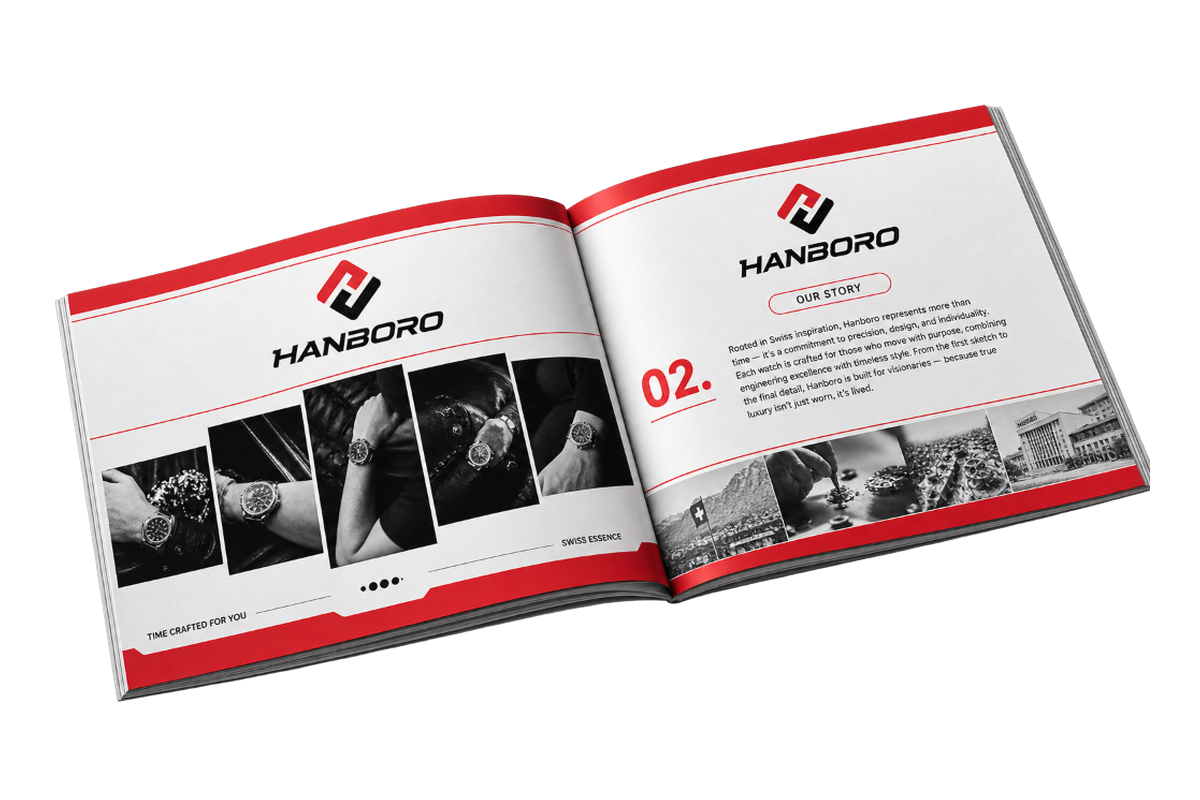
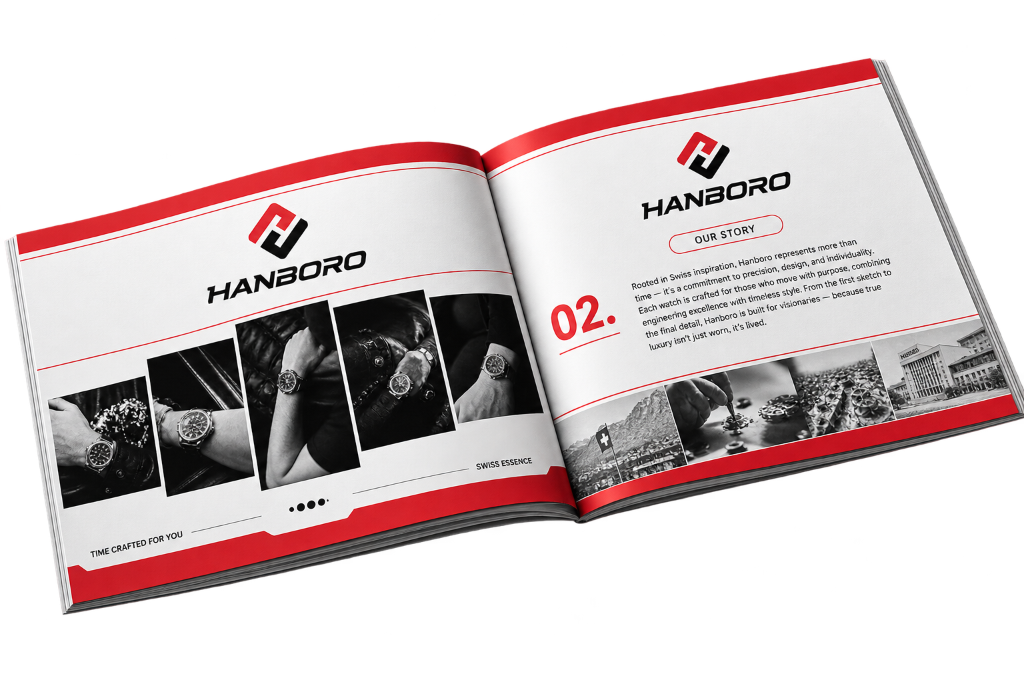
Register Spread 2 perspective warp to match Spread 1 pixel-perfectly with natural 3D page flip

Changed region(s): [[0.0, 0.0616, 1.0, 0.9238]]

diff --git a/src/styles.css b/src/styles.css
@@ -400,53 +400,126 @@ a { color: inherit; text-decoration: none; }
   position: relative;
   width: 100%;
   max-width: 1080px;
-  aspect-ratio: 1200 / 800;
-  display: flex;
+  aspect-ratio: 1024 / 682;
   perspective: 2600px;
   transform-style: preserve-3d;
   filter: drop-shadow(0 35px 80px rgba(0, 0, 0, 0.95));
   user-select: none;
 }
 
-.book-page-leaf {
+.book-spread-wrapper {
   position: relative;
-  width: 50%;
+  width: 100%;
   height: 100%;
-  cursor: pointer;
-  overflow: hidden;
+  display: flex;
+  justify-content: center;
+  align-items: center;
+  overflow: visible;
   transition: transform 0.3s var(--ease-expo);
 }
 
-.book-page-leaf:hover {
-  transform: scale(1.008);
-}
-
-.book-page-img {
+.book-spread-img {
   width: 100%;
   height: 100%;
   object-fit: contain;
   display: block;
   pointer-events: none;
+  transition: opacity 0.35s ease, transform 0.35s ease;
 }
 
-/* Spine Shadow */
-.book-spine {
+.book-click-zone {
   position: absolute;
   top: 0;
   bottom: 0;
-  left: 50%;
-  width: 60px;
-  transform: translateX(-50%);
+  width: 50%;
+  cursor: pointer;
+  z-index: 10;
+}
+
+.book-click-zone--left {
+  left: 0;
+}
+
+.book-click-zone--right {
+  right: 0;
+}
+
+/* 3D Page Flip Dynamics */
+.is-flipping-forward .book-spread-img {
+  animation: spreadFlipForward 0.7s cubic-bezier(0.25, 1, 0.5, 1) forwards;
+}
+
+.is-flipping-backward .book-spread-img {
+  animation: spreadFlipBackward 0.7s cubic-bezier(0.25, 1, 0.5, 1) forwards;
+}
+
+@keyframes spreadFlipForward {
+  0% {
+    transform: perspective(2000px) rotateY(0deg) scale(1);
+  }
+  50% {
+    transform: perspective(2000px) rotateY(-8deg) scale(0.985);
+    filter: brightness(0.92);
+  }
+  100% {
+    transform: perspective(2000px) rotateY(0deg) scale(1);
+  }
+}
+
+@keyframes spreadFlipBackward {
+  0% {
+    transform: perspective(2000px) rotateY(0deg) scale(1);
+  }
+  50% {
+    transform: perspective(2000px) rotateY(8deg) scale(0.985);
+    filter: brightness(0.92);
+  }
+  100% {
+    transform: perspective(2000px) rotateY(0deg) scale(1);
+  }
+}
+
+/* Shimmer on page turn */
+.book-flip-overlay {
+  position: absolute;
+  inset: 0;
+  pointer-events: none;
+  overflow: hidden;
+  z-index: 12;
+}
+
+.is-flipping-forward .book-flip-shimmer {
+  position: absolute;
+  inset: 0;
   background: linear-gradient(
-    to right,
+    90deg,
     transparent 0%,
-    rgba(0, 0, 0, 0.45) 45%,
-    rgba(0, 0, 0, 0.7) 50%,
-    rgba(0, 0, 0, 0.45) 55%,
+    rgba(255, 255, 255, 0.15) 50%,
     transparent 100%
   );
-  pointer-events: none;
-  z-index: 10;
+  animation: pageShimmerForward 0.7s ease-in-out forwards;
+}
+
+.is-flipping-backward .book-flip-shimmer {
+  position: absolute;
+  inset: 0;
+  background: linear-gradient(
+    90deg,
+    transparent 0%,
+    rgba(255, 255, 255, 0.15) 50%,
+    transparent 100%
+  );
+  animation: pageShimmerBackward 0.7s ease-in-out forwards;
+}
+
+@keyframes pageShimmerForward {
+  from { transform: translateX(100%); }
+  to { transform: translateX(-100%); }
+}
+
+@keyframes pageShimmerBackward {
+  from { transform: translateX(-100%); }
+  to { transform: translateX(100%); }
 }
 
 /* Interactive Page Turn Prompt */
@@ -490,113 +563,6 @@ a { color: inherit; text-decoration: none; }
   }
   50% {
     box-shadow: 0 0 0 8px rgba(250, 45, 29, 0);
-  }
-}
-
-/* Dynamic 3D Flipping Sheet */
-.flipping-leaf {
-  position: absolute;
-  top: 0;
-  bottom: 0;
-  width: 50%;
-  height: 100%;
-  transform-style: preserve-3d;
-  z-index: 20;
-  pointer-events: none;
-}
-
-.flipping-leaf--forward {
-  left: 50%;
-  transform-origin: left center;
-  animation: pageFlipForward 0.7s cubic-bezier(0.25, 1, 0.5, 1) forwards;
-}
-
-.flipping-leaf--backward {
-  left: 0;
-  transform-origin: right center;
-  animation: pageFlipBackward 0.7s cubic-bezier(0.25, 1, 0.5, 1) forwards;
-}
-
-.flipping-leaf__front,
-.flipping-leaf__back {
-  position: absolute;
-  inset: 0;
-  backface-visibility: hidden;
-  -webkit-backface-visibility: hidden;
-  overflow: hidden;
-}
-
-.flipping-leaf__front img,
-.flipping-leaf__back img {
-  width: 100%;
-  height: 100%;
-  object-fit: contain;
-  display: block;
-}
-
-.flipping-leaf__back {
-  transform: rotateY(180deg);
-}
-
-.page-lighting-shadow {
-  position: absolute;
-  inset: 0;
-  pointer-events: none;
-}
-
-.page-lighting-shadow--front {
-  animation: frontShadow 0.7s cubic-bezier(0.25, 1, 0.5, 1) forwards;
-}
-
-.page-lighting-shadow--back {
-  animation: backShadow 0.7s cubic-bezier(0.25, 1, 0.5, 1) forwards;
-}
-
-@keyframes pageFlipForward {
-  0% {
-    transform: rotateY(0deg) scale(1);
-  }
-  50% {
-    transform: rotateY(-90deg) scale(1.03) skewY(-2deg);
-  }
-  100% {
-    transform: rotateY(-180deg) scale(1);
-  }
-}
-
-@keyframes pageFlipBackward {
-  0% {
-    transform: rotateY(0deg) scale(1);
-  }
-  50% {
-    transform: rotateY(90deg) scale(1.03) skewY(2deg);
-  }
-  100% {
-    transform: rotateY(180deg) scale(1);
-  }
-}
-
-@keyframes frontShadow {
-  0% {
-    background: rgba(0, 0, 0, 0);
-  }
-  50% {
-    background: linear-gradient(to right, rgba(0, 0, 0, 0.55), rgba(0, 0, 0, 0.1));
-  }
-  100% {
-    background: rgba(0, 0, 0, 0.7);
-  }
-}
-
-@keyframes backShadow {
-  0% {
-    background: rgba(0, 0, 0, 0.7);
-  }
-  50% {
-    background: linear-gradient(to left, rgba(0, 0, 0, 0.55), rgba(0, 0, 0, 0.1));
-  }
-  100% {
-    background: rgba(0, 0, 0, 0);
   }
 }
 

diff --git a/src/App.jsx b/src/App.jsx
@@ -328,12 +328,16 @@ function Splash({ onEnter, exiting }) {
 function LookbookBook() {
   const [spread, setSpread] = useState(1); // 1 = pages 1-2, 2 = pages 3-4
   const [isFlipping, setIsFlipping] = useState(false);
+  const [flipDirection, setFlipDirection] = useState("forward");
 
   const flipForward = () => {
     if (spread === 1 && !isFlipping) {
+      setFlipDirection("forward");
       setIsFlipping(true);
       setTimeout(() => {
         setSpread(2);
+      }, 350);
+      setTimeout(() => {
         setIsFlipping(false);
       }, 700);
     }
@@ -341,9 +345,12 @@ function LookbookBook() {
 
   const flipBackward = () => {
     if (spread === 2 && !isFlipping) {
+      setFlipDirection("backward");
       setIsFlipping(true);
       setTimeout(() => {
         setSpread(1);
+      }, 350);
+      setTimeout(() => {
         setIsFlipping(false);
       }, 700);
     }
@@ -352,61 +359,52 @@ function LookbookBook() {
   return (
     <div className="lookbook-stage" data-reveal data-reveal-delay="1">
       {/* 3D Book Container */}
-      <div className={`book-3d ${isFlipping ? "is-flipping" : ""} spread-${spread}`}>
-        {/* Left Side of the Open Book */}
-        <div
-          className="book-page-leaf book-page-leaf--left"
-          onClick={flipBackward}
-          title={spread === 2 ? "Click to flip back to Pages 01-02" : "Page 01"}
-        >
+      <div className={`book-3d ${isFlipping ? `is-flipping-${flipDirection}` : ""}`}>
+        {/* Full Open Book Spread */}
+        <div className="book-spread-wrapper">
           <img
-            src={spread === 1 ? "/lookbook-p1.png" : "/lookbook-p3.png"}
-            alt={spread === 1 ? "HANBORO Lookbook Page 01: Swiss Essence" : "HANBORO Lookbook Page 03: The Collection"}
-            className="book-page-img"
+            src={spread === 1 ? "/lookbook-spread-1.png" : "/lookbook-spread-2.png"}
+            alt={spread === 1 ? "HANBORO Lookbook Pages 01-02" : "HANBORO Lookbook Pages 03-04"}
+            className="book-spread-img"
             loading="lazy"
           />
-          {spread === 2 && (
-            <button className="page-turn-hint page-turn-hint--left" onClick={(e) => { e.stopPropagation(); flipBackward(); }} aria-label="Turn to previous page">
-              <span>❮ Flip to Page 01-02</span>
-            </button>
-          )}
-        </div>
 
-        {/* Central Book Spine Shadow */}
-        <div className="book-spine" aria-hidden="true" />
-
-        {/* Right Side of the Open Book */}
-        <div
-          className="book-page-leaf book-page-leaf--right"
-          onClick={flipForward}
-          title={spread === 1 ? "Click to flip to Pages 03-04" : "Page 04"}
-        >
-          <img
-            src={spread === 1 ? "/lookbook-p2.png" : "/lookbook-p4.png"}
-            alt={spread === 1 ? "HANBORO Lookbook Page 02: Our Story" : "HANBORO Lookbook Page 04: Orbita-980-1"}
-            className="book-page-img"
-            loading="lazy"
+          {/* Interactive Click Zones */}
+          <div
+            className="book-click-zone book-click-zone--left"
+            onClick={flipBackward}
+            title={spread === 2 ? "Click to flip back to Pages 01-02" : "Pages 01-02"}
           />
-          {spread === 1 && (
-            <button className="page-turn-hint page-turn-hint--right" onClick={(e) => { e.stopPropagation(); flipForward(); }} aria-label="Turn to next page">
-              <span>Flip to Page 03-04 ❯</span>
+          <div
+            className="book-click-zone book-click-zone--right"
+            onClick={flipForward}
+            title={spread === 1 ? "Click to flip to Pages 03-04" : "Pages 03-04"}
+          />
+
+          {/* Corner Interactive Pill */}
+          {spread === 1 ? (
+            <button
+              className="page-turn-hint page-turn-hint--right"
+              onClick={flipForward}
+              aria-label="Turn to Pages 03-04"
+            >
+              <span>Flip to Pages 03–04 ❯</span>
+            </button>
+          ) : (
+            <button
+              className="page-turn-hint page-turn-hint--left"
+              onClick={flipBackward}
+              aria-label="Turn to Pages 01-02"
+            >
+              <span>❮ Flip to Pages 01–02</span>
             </button>
           )}
-        </div>
 
-        {/* Dynamic 3D Flipping Sheet (animates during page turn) */}
-        {isFlipping && (
-          <div className={`flipping-leaf ${spread === 1 ? "flipping-leaf--forward" : "flipping-leaf--backward"}`}>
-            <div className="flipping-leaf__front">
-              <img src={spread === 1 ? "/lookbook-p2.png" : "/lookbook-p1.png"} alt="Flipping page front" />
-              <div className="page-lighting-shadow page-lighting-shadow--front" />
-            </div>
-            <div className="flipping-leaf__back">
-              <img src={spread === 1 ? "/lookbook-p3.png" : "/lookbook-p4.png"} alt="Flipping page back" />
-              <div className="page-lighting-shadow page-lighting-shadow--back" />
-            </div>
+          {/* Realistic 3D Paper Flip Overlay */}
+          <div className="book-flip-overlay" aria-hidden="true">
+            <div className="book-flip-shimmer" />
           </div>
-        )}
+        </div>
       </div>
 
       {/* Book Navigation Toolbar */}
